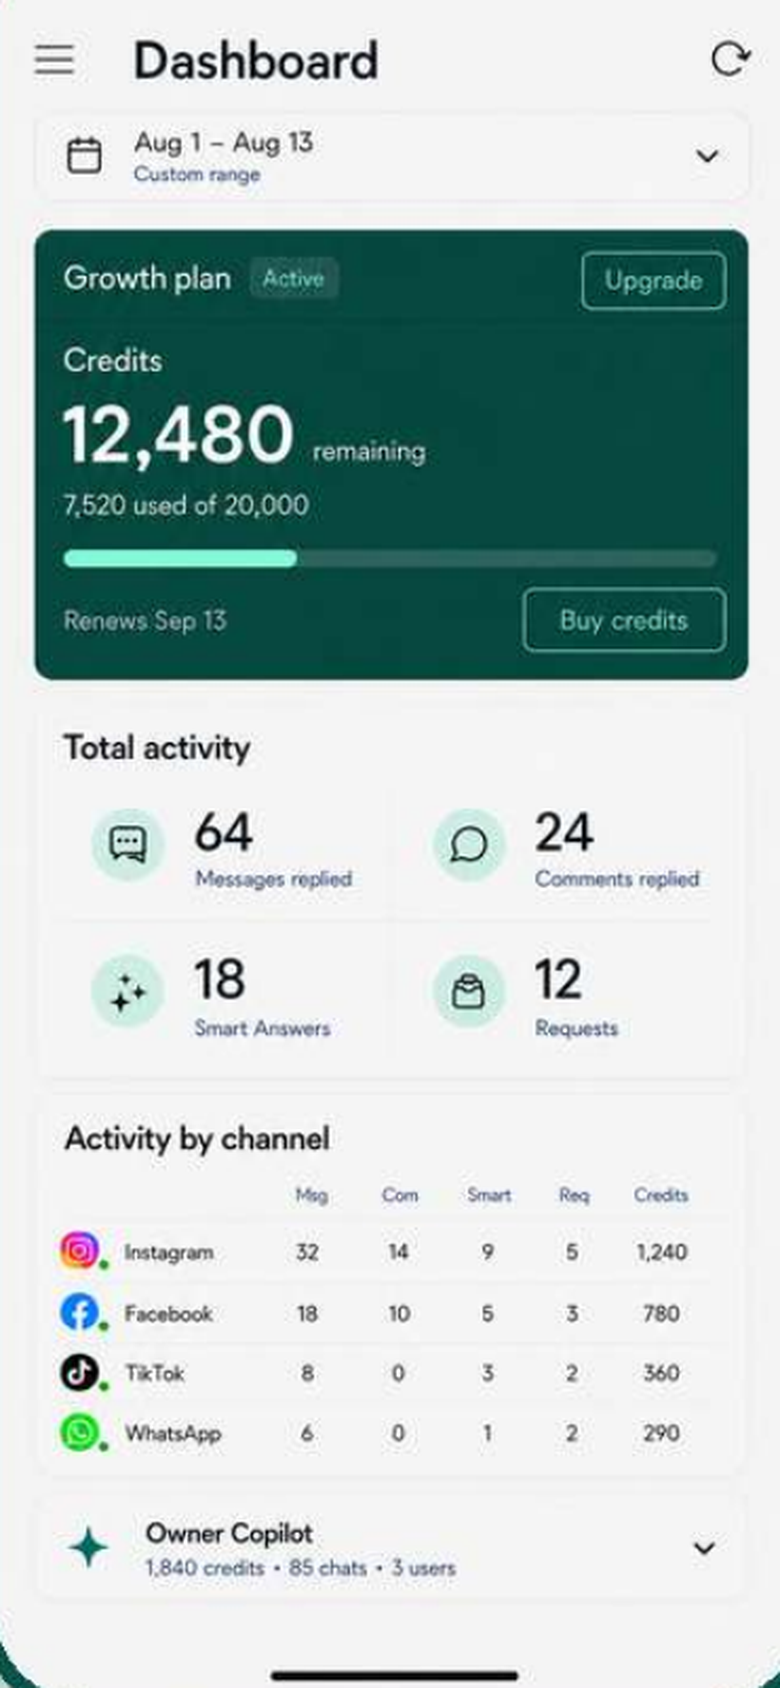
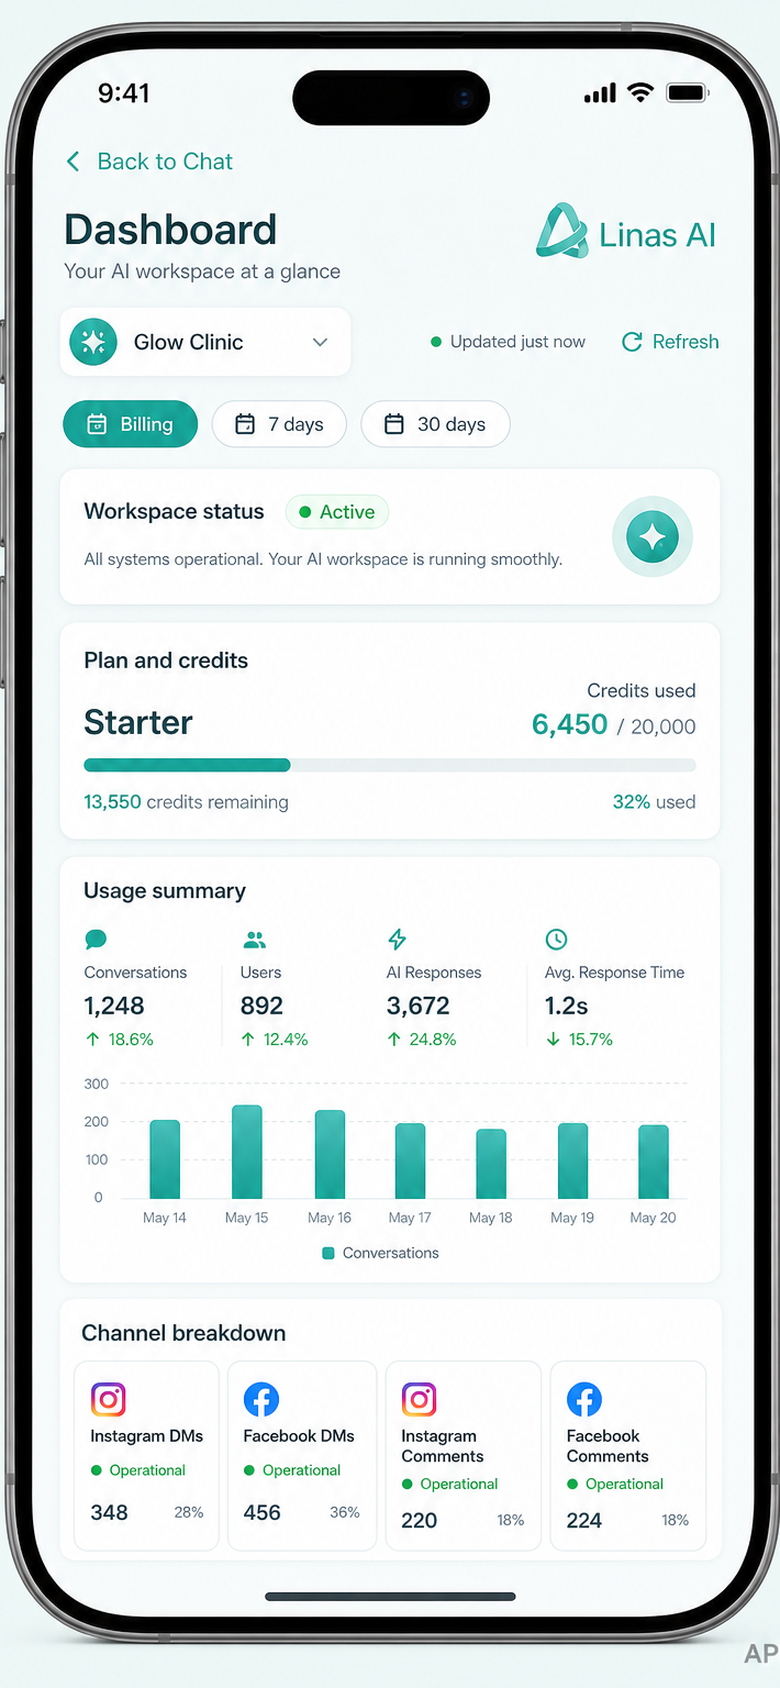
Replace soft How-it-works tour crops with sharp admin screens.
Use real handoffs, Content Management for AI Setup, high-res dashboard/subscription mockups, and crisp replacements for the remaining soft tour upscales so the phone frame matches current admin UI.

diff --git a/dashboard/src/constants/landingDesignAssets.js b/dashboard/src/constants/landingDesignAssets.js
@@ -29,24 +29,23 @@ export const LANDING_ASSETS = {
     settings: '/brand/landing/app-screens/tour/13-settings.png',
   },
   /**
-   * In-phone How it works screens — all 780×1688 (phone aspect).
-   * Real app handoffs where available; otherwise tour comps cropped to the
-   * phone interior (no bezel / mint canvas) so object-fit never zooms wrong.
+   * In-phone How it works screens — all 780×1688, sharp admin UI only.
+   * Prefer real handoffs / high-res mockups; never soft tour upscales.
    */
   howItWorksScreens: {
-    ownerCopilot: '/brand/landing/app-screens/owner-copilot.png',
-    sideMenu: '/brand/landing/app-screens/navigation.png',
+    ownerCopilot: '/brand/landing/app-screens/screens/01-owner-copilot-screen.png',
+    sideMenu: '/brand/landing/app-screens/screens/02-side-menu-screen.png',
     dashboard: '/brand/landing/app-screens/screens/03-dashboard-screen.png',
     aiSetup: '/brand/landing/app-screens/screens/04-ai-setup-screen.png',
     smartAnswers: '/brand/landing/app-screens/screens/05-smart-answers-screen.png',
     smartFollowUp: '/brand/landing/app-screens/screens/06-smart-follow-up-screen.png',
-    integrations: '/brand/landing/app-screens/integrations.png',
-    liveChat: '/brand/landing/app-screens/live-chat.png',
+    integrations: '/brand/landing/app-screens/screens/07-integrations-screen.png',
+    liveChat: '/brand/landing/app-screens/screens/08-live-chat-screen.png',
     requests: '/brand/landing/app-screens/screens/09-requests-screen.png',
     users: '/brand/landing/app-screens/screens/10-users-screen.png',
     subscription: '/brand/landing/app-screens/screens/11-subscription-screen.png',
     aiLimits: '/brand/landing/app-screens/screens/12-ai-limits-screen.png',
-    settings: '/brand/landing/app-screens/settings.png',
+    settings: '/brand/landing/app-screens/screens/13-settings-screen.png',
   },
   designScreenshots: {
     hero: '/brand/landing/screenshots/linas-landing-01-hero.jpg',

diff --git a/dashboard/src/constants/landingHowItWorks.js b/dashboard/src/constants/landingHowItWorks.js
@@ -45,7 +45,6 @@ export const HOW_IT_WORKS_STEPS = [
     ],
     image: LANDING_ASSETS.howItWorksScreens.dashboard,
     alt: 'Linas AI activity dashboard',
-    builtScreen: 'dashboard',
   },
   {
     n: '04',

diff --git a/dashboard/scripts/rebuild-hiw-sharp-screens.py b/dashboard/scripts/rebuild-hiw-sharp-screens.py
@@ -1,0 +1,67 @@
+#!/usr/bin/env python3
+"""Rebuild How-it-works phone screens at sharp 780×1688.
+
+Sources (priority):
+- Real app handoffs under app-screens/*.png
+- High-res mobile mockups under mobile/linas-ai/docs/
+- Content Management handoff for AI Setup (newest admin list UI)
+
+Do not upscale soft Karen tour comps — those look blurry in the phone frame.
+"""
+from __future__ import annotations
+
+from pathlib import Path
+
+from PIL import Image
+
+REPO = Path(__file__).resolve().parents[2]
+ROOT = Path(__file__).resolve().parents[1] / "public" / "brand" / "landing" / "app-screens"
+OUT = ROOT / "screens"
+TARGET = (780, 1688)
+
+SOURCES: dict[str, Path] = {
+    "01-owner-copilot-screen.png": ROOT / "owner-copilot.png",
+    "02-side-menu-screen.png": ROOT / "navigation.png",
+    "03-dashboard-screen.png": REPO
+    / "mobile/linas-ai/docs/mockups/linas-dashboard-active-populated-approx.png",
+    "04-ai-setup-screen.png": ROOT / "content-management.png",
+    "07-integrations-screen.png": ROOT / "integrations.png",
+    "08-live-chat-screen.png": ROOT / "live-chat.png",
+    "11-subscription-screen.png": REPO
+    / "mobile/linas-ai/docs/subscription-mockups/sub-mock-current-lite.png",
+    "13-settings-screen.png": ROOT / "settings.png",
+}
+
+
+def fit_cover(im: Image.Image, target: tuple[int, int] = TARGET) -> Image.Image:
+    im = im.convert("RGB")
+    tw, th = target
+    target_aspect = tw / th
+    w, h = im.size
+    src_aspect = w / h
+    if src_aspect > target_aspect:
+        nh = h
+        nw = int(round(h * target_aspect))
+        left = (w - nw) // 2
+        crop = im.crop((left, 0, left + nw, h))
+    else:
+        nw = w
+        nh = int(round(w / target_aspect))
+        top = max(0, (h - nh) // 2)
+        crop = im.crop((0, top, w, top + nh))
+    return crop.resize(target, Image.Resampling.LANCZOS)
+
+
+def main() -> None:
+    OUT.mkdir(parents=True, exist_ok=True)
+    for dest_name, src in SOURCES.items():
+        if not src.is_file():
+            raise SystemExit(f"missing source: {src}")
+        out = fit_cover(Image.open(src))
+        dest = OUT / dest_name
+        out.save(dest, optimize=True)
+        print(f"{src.name} -> {dest.name} {TARGET[0]}x{TARGET[1]}")
+
+
+if __name__ == "__main__":
+    main()
